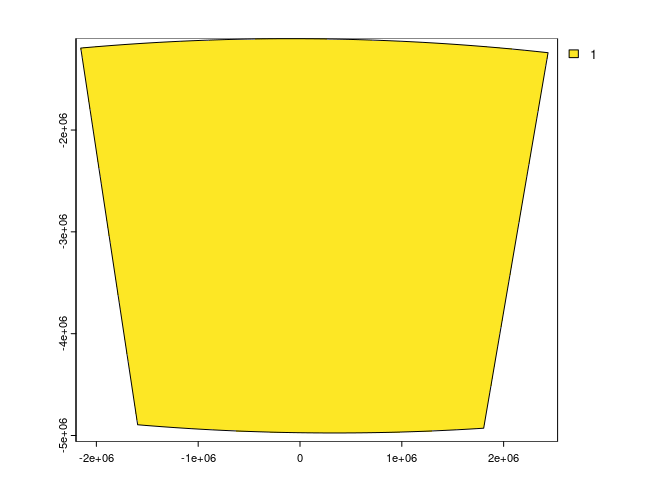
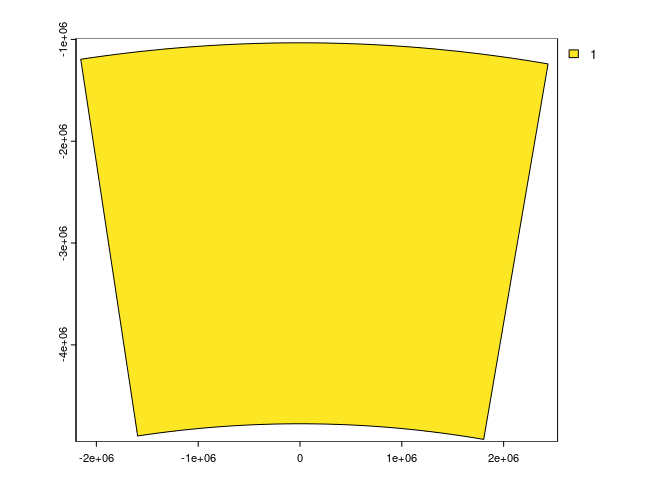
fix gc densify snafu

diff --git a/README.md b/README.md
@@ -181,7 +181,8 @@ plot(bdy, asp = 1)
 library(terra)
 p <- terra::vect(matrix(albex[c(1, 1, 2, 2, 1, 
              3, 4, 4, 3, 3)], ncol = 2), type = "polygons", crs = "EPSG:4326")
-p <- terra::densify(p, 1000)
+p <- terra::densify(p, 1, flat = TRUE)  ## beware densify, we don't want great circles ...
+
 grd <- crs_grid(p, "EPSG:3577")
 terra::plot(grd); plot(project(p, "EPSG:3577"), add = TRUE)
 ```
@@ -216,8 +217,9 @@ m <- reproj::reproj_xy(do.call(cbind, maps::map(plot = F)[1:2]), "EPSG:3577", so
 lines(m)
 ```
 
-<img src="man/figures/README-ozex-1.png" width="100%" /> \## Code of
-Conduct
+<img src="man/figures/README-ozex-1.png" width="100%" />
+
+## Code of Conduct
 
 Please note that the realarea project is released with a [Contributor
 Code of
